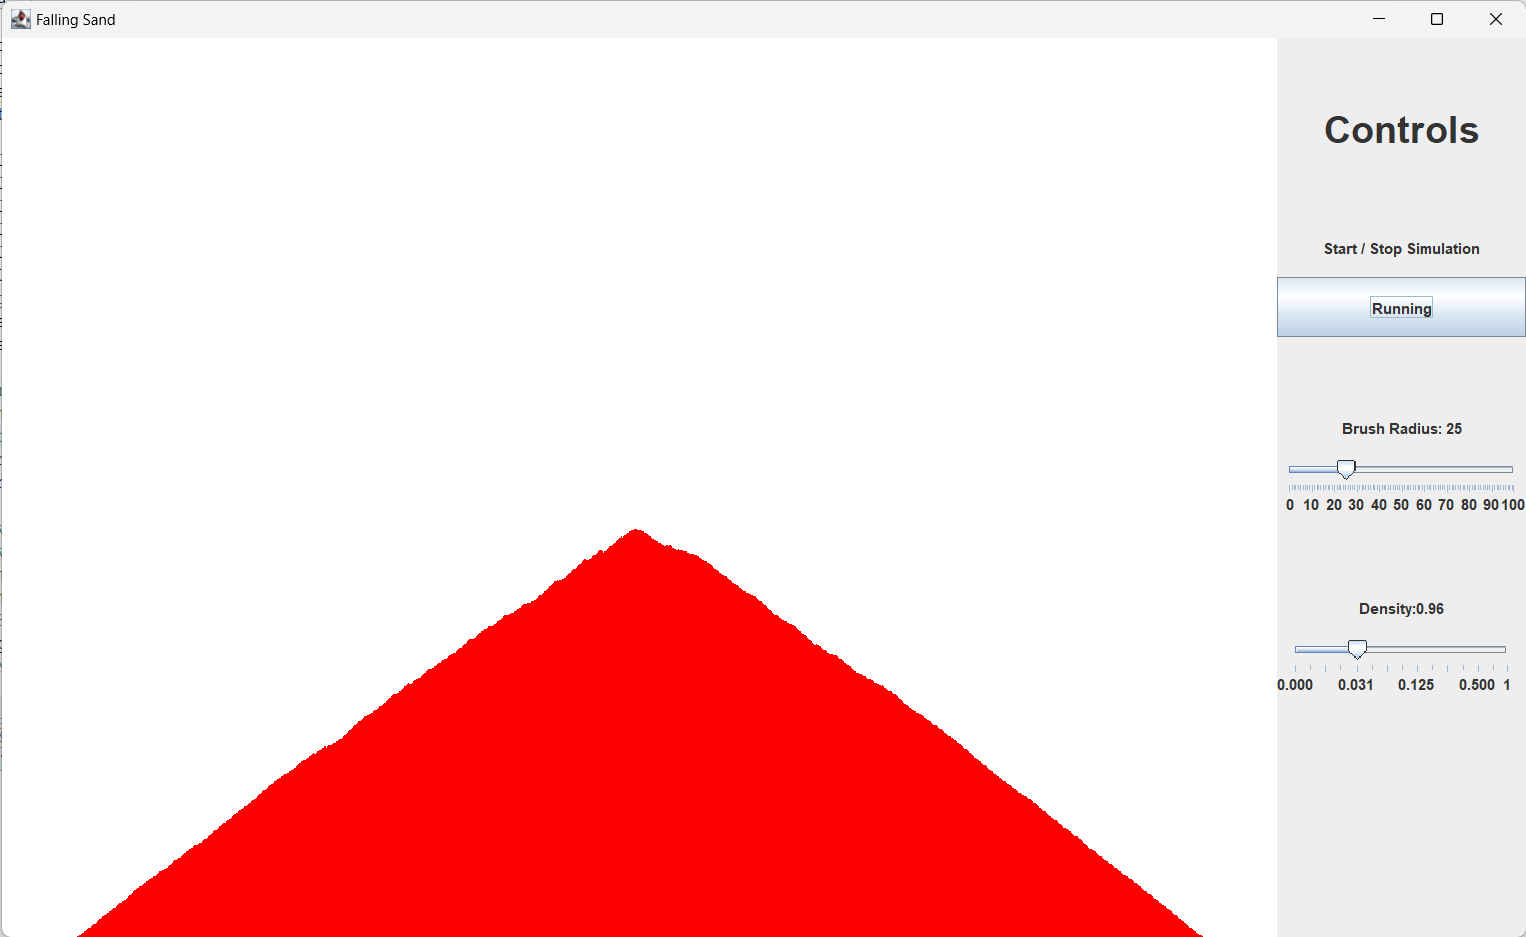
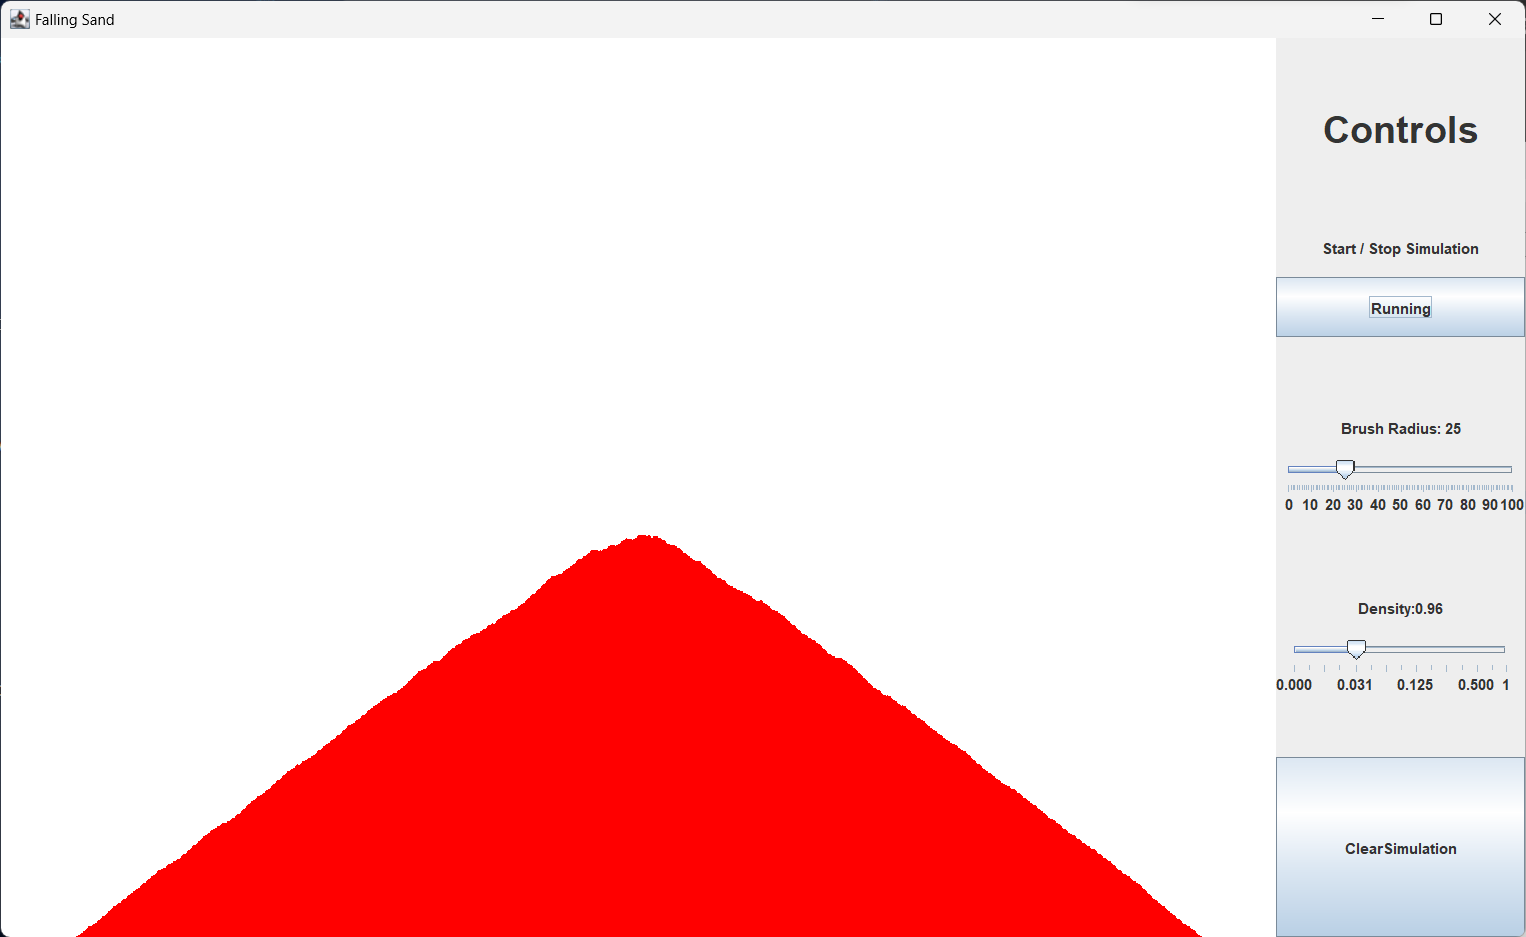
Added clear simulation button

diff --git a/FallingSand.java b/FallingSand.java
@@ -80,6 +80,14 @@ public class FallingSand {
 
 		JLabel startStopLabel = new JLabel("Start / Stop Simulation");
 		startStopLabel.setHorizontalAlignment(JLabel.CENTER);
+		
+		JButton clearButton = new JButton("Clear\nSimulation");
+		clearButton.addActionListener(new ActionListener() {
+			@Override
+			public void actionPerformed(ActionEvent e) {
+				drawingPanel.clearSimulation();
+			}
+		});
 
 		JLabel controlsLabel = new JLabel("Controls");
 		controlsLabel.setFont(new Font(UIManager.getDefaults().getFont("Label.font").getName(), Font.BOLD, 30));
@@ -103,7 +111,8 @@ public class FallingSand {
 		controls.add(startStopControlPanel);
 		controls.add(radiusControlPanel);
 		controls.add(densityControlPanel);
-		
+		controls.add(clearButton);
+
 		window.add(controls, BorderLayout.EAST);
 
 		window.setDefaultCloseOperation(JFrame.EXIT_ON_CLOSE);
@@ -142,12 +151,12 @@ public class FallingSand {
 		for (Map.Entry<Integer, Double> entry : values.entrySet()) {
 			Integer key = entry.getKey();
 			Double val = entry.getValue();
-			if (key%4==0)
+			if (key % 4 == 0)
 				labelTable.put(key, new JLabel(String.format("%.3f", val)));
 		}
-		labelTable.put(14,new JLabel("1") );
+		labelTable.put(14, new JLabel("1"));
 		slider.setLabelTable(labelTable);
-		
+
 		slider.addChangeListener(new ChangeListener() {
 			public void stateChanged(ChangeEvent e) {
 				double value = values.get(slider.getValue());

diff --git a/ImagePanel.java b/ImagePanel.java
@@ -77,7 +77,7 @@ public class ImagePanel extends JPanel implements MouseListener {
 		this.repaint();
 
 		// this runs much faster (as fast as a single thread can run in java)
-		//TODO do proper thread lock / unlock
+		// TODO do proper thread lock / unlock
 		Runnable r = new Runnable() {
 			public void run() {
 				while (getSimulationStatus()) {
@@ -235,7 +235,7 @@ public class ImagePanel extends JPanel implements MouseListener {
 	public synchronized boolean getSimulationStatus() {
 		return simRunning;
 	}
-	
+
 	/**
 	 * @return the sandSpawnRadius
 	 */
@@ -262,6 +262,21 @@ public class ImagePanel extends JPanel implements MouseListener {
 	 */
 	public void setSandSpawnDensity(double sandSpawnDensity) {
 		this.sandSpawnDensity = sandSpawnDensity;
+	}
+
+	public void clearSimulation() {
+		pauseSimulation();
+		for (int i = 0; i < color.length; i++) {
+			color[i] = Material.AIR.color;
+		}
+		this.repaint();
+		im.setRGB(0, 0, width, height, color, 0, width);
+		pm.updateSand();
+		for (int i = 0; i < color.length; i++) {
+			color[i] = Material.AIR.color;
+		}
+		im.setRGB(0, 0, width, height, color, 0, width);
+		resumeSimulation();
 	}
 
 	@Override
